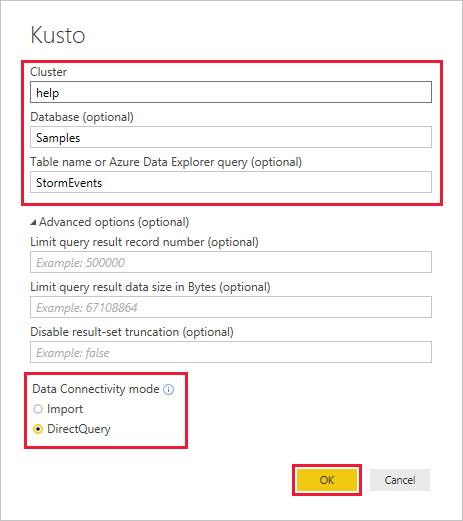
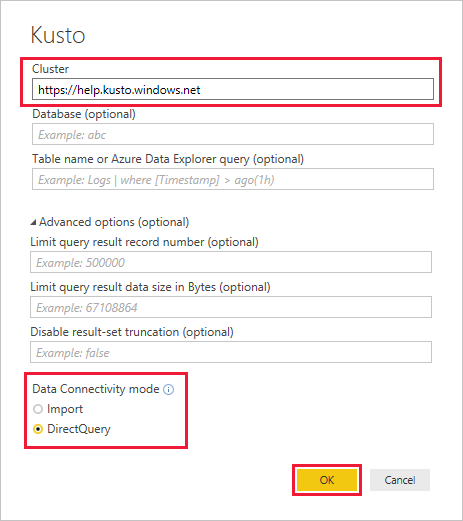
Update for revieew feedback

Changed region(s): [[0.0302, 0.0921, 0.9676, 0.3992]]

diff --git a/data-explorer/power-bi-connector.md b/data-explorer/power-bi-connector.md
@@ -48,9 +48,9 @@ First, you connect to the Azure Data Explorer help cluster, then you bring in a 
 
     **Setting** | **Value** | **Field description**
     |---|---|---|
-    | Cluster | *help* | The full cluster name is *help.kusto.windows.net*, but only the part before *kusto* is required here.|
-    | Database | *Samples* | The sample database that is hosted on the cluster. |
-    | Table name | *StormEvents* | One of the tables in the sample database. |
+    | Cluster | *https://help.kusto.windows.net* | The URL for the help cluster. For other clusters, the URL is in the form *https://\<ClusterName\>.\<Region\>.kusto.windows.net*. |
+    | Database | Leave blank | A database that is hosted on the cluster you're connecting to. We'll select this in a later step. |
+    | Table name | Leave blank | One of the tables in the database, or a query like `StormEvents | take 1000`. We'll select this in a later step. |
     | Advanced options | Leave blank | Options for your queries, such as result set size. |
     | Data connectivity mode | *DirectQuery* | Determines whether Power BI imports the data or connects directly to the data source. |
     | | | |
@@ -59,7 +59,9 @@ First, you connect to the Azure Data Explorer help cluster, then you bring in a 
 
     ![Sign in](media/power-bi-connector/sign-in.png)
 
-1. On the **help: Samples: StormEvents** preview screen, select **Edit**.
+1. On the **Navigator** screen, expand the **Samples** database, select **StormEvents** then **Edit**.
+
+    ![Select table](media/power-bi-connector/select-table.png)
 
     The table opens in Power Query Editor, where you can edit rows and columns before importing the data.
 
